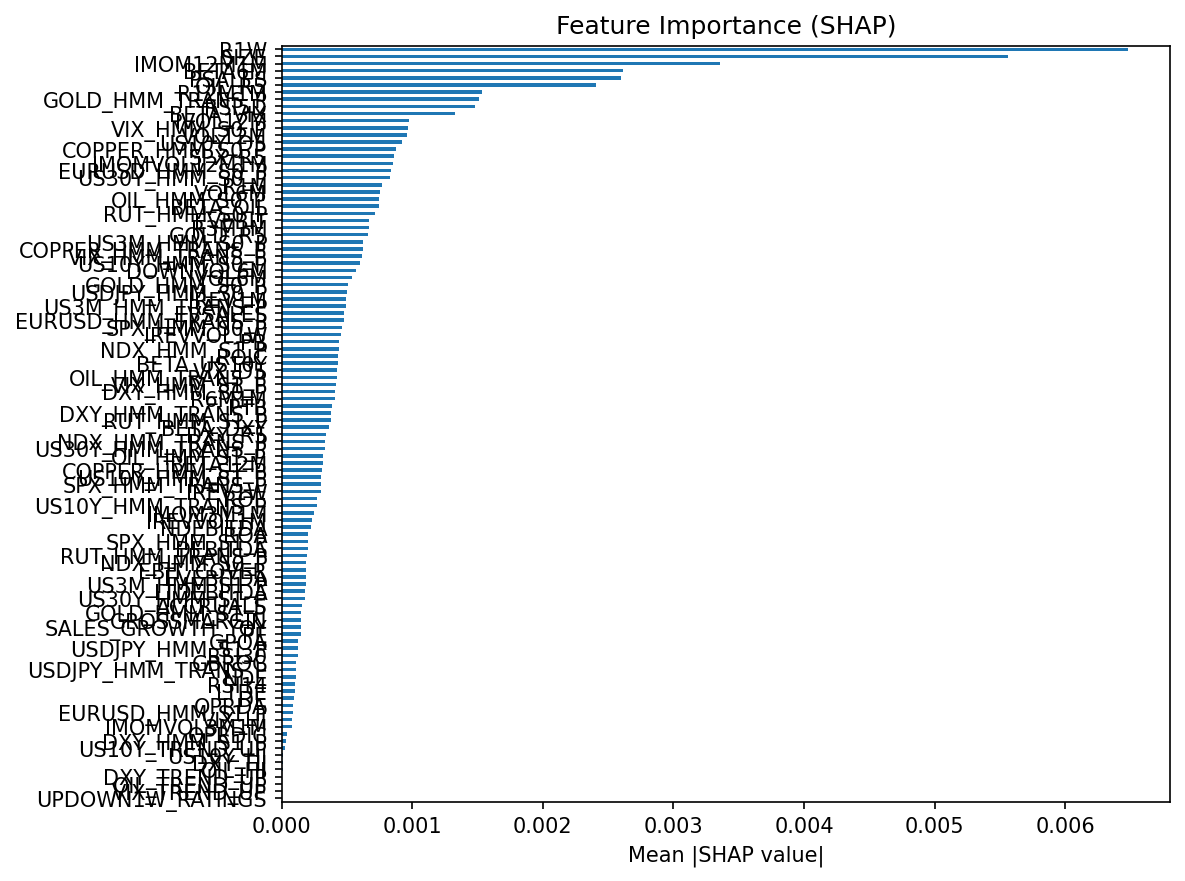
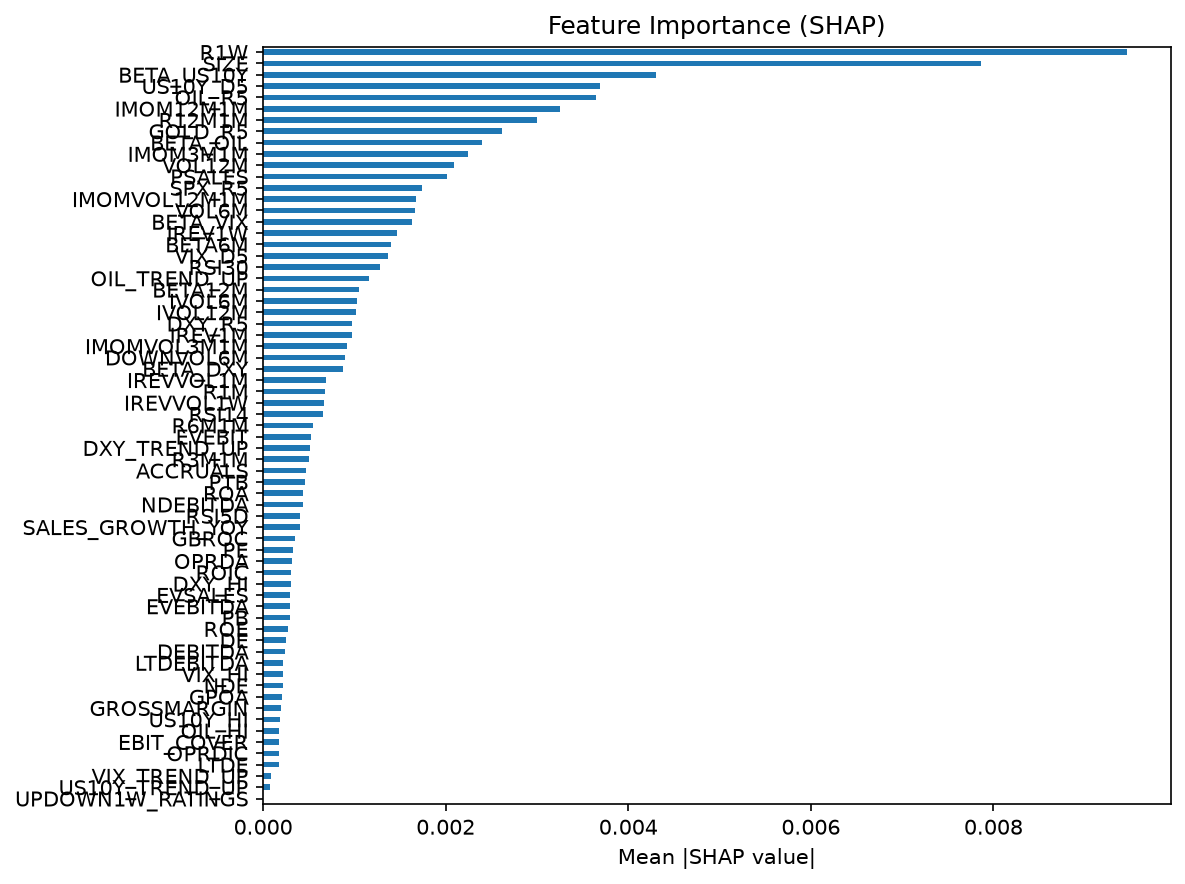
feat(universe): exclude preferred shares from live pick selection
Preferred lines (ENB-PN.TO, BCE-PY.TO, BBD-PC.TO, …) were being surfaced as
long picks. They are not the instrument the model ranks: all 12 in the current
universe sit at C$21-26 (the TSX C$25 par) yielding 5.7-7.6%, so the price
factors that dominate this model (R1W reversal, momentum, vol) mean something
different on them. FMP also reports the PARENT issuer's market cap on a
preferred line, so SIZE is simply wrong for these names.

Applied at SELECTION time in src/predict.py, gated on universe.exclude_preferred
— no retrain required, the model just never picks them. Deliberately NOT applied
in the backtest: that would change historical results and break comparability
with the runs recorded in .specify/007, and would corrupt the bag-ON/bag-OFF A/B
currently in flight.

The detector matches `-P<letter>` and deliberately NOT `-<letter>`. The looser
pattern matches 31 tickers in this universe and would silently delete legitimate
dual-class COMMON shares — BBD-A.TO/BBD-B.TO, BF-B, CTC-A.TO, GIB-A.TO, BT-A.L —
plus income-trust/REIT units (BEP-UN.TO). tests/test_preferred_filter.py pins
both directions so a future tweak cannot quietly widen it.

Effect on the 2026-08-20 THU forecast: eligible universe 728 -> 716, BBD-PC.TO
and BCE-PY.TO drop out of the long book, ARE and CSCO promote in.

Also refreshes the SHAP figures from the bag-ON run (R1W remains #1 of 67).

diff --git a/src/data/universe.py b/src/data/universe.py
@@ -1,6 +1,7 @@
 """Universe construction: index constituents, sector filters, ADV filters."""
 
 import io
+import re
 
 import pandas as pd
 import requests
@@ -213,3 +214,41 @@ def get_region_for_ticker(symbol: str) -> str | None:
             if symbol in set(df["symbol"].astype(str)):
                 return region
     return None
+
+
+# ---------------------------------------------------------------------------
+# Preferred-share exclusion
+# ---------------------------------------------------------------------------
+
+# TSX/NYSE convention: a preferred series is a "-P" suffix plus the series
+# letter, e.g. ENB-PN.TO (Enbridge preferred series N), BCE-PY.TO. The trailing
+# ".TO"/".L" exchange suffix is optional so US lines like BAC-PL also match.
+#
+# Deliberately NOT `-[A-Z]`: that convention also marks dual-class COMMON
+# shares, which are legitimate universe members and must not be dropped —
+# BBD-A.TO / BBD-B.TO (Bombardier), BF-B (Brown-Forman), CTC-A.TO (Canadian
+# Tire), GIB-A.TO (CGI), BT-A.L (BT Group). Nor `-UN` (income-trust/REIT units
+# such as BEP-UN.TO), which are equity-like and intentionally kept.
+_PREFERRED_RE = re.compile(r"-P[A-Z]?(?:\.[A-Z]+)?$", re.IGNORECASE)
+
+
+def is_preferred_share(symbol: str) -> bool:
+    """True if `symbol` looks like a preferred-share line rather than common equity.
+
+    Preferreds are excluded at SELECTION time because they are not the
+    instrument the model was trained to rank: they trade near a fixed par
+    (C$25 on the TSX) with bond-like yields, so the price-derived factors that
+    dominate this model (R1W reversal, momentum, volatility) carry a completely
+    different meaning on them. FMP also reports the PARENT issuer's market cap
+    on a preferred line, so SIZE is simply wrong for these names.
+
+    Verified against the 2026-08-20 forecast universe: matches exactly the 12
+    preferred lines (all clustered at $21-26 with 5.7-7.6% yields) and none of
+    the dual-class commons.
+    """
+    return bool(_PREFERRED_RE.search(str(symbol).strip()))
+
+
+def filter_preferred_shares(symbols) -> list[str]:
+    """Return `symbols` with preferred-share lines removed (order preserved)."""
+    return [s for s in symbols if not is_preferred_share(s)]

diff --git a/tests/test_preferred_filter.py b/tests/test_preferred_filter.py
@@ -1,0 +1,60 @@
+"""Preferred-share exclusion (src/data/universe.py).
+
+The risk this guards against is not missing a preferred — it is silently
+dropping legitimate dual-class COMMON shares, which share the `-<LETTER>`
+ticker convention and are real universe members.
+"""
+
+from __future__ import annotations
+
+import pytest
+
+from src.data.universe import filter_preferred_shares, is_preferred_share
+
+# The 12 preferred lines actually present in the 2026-08-20 forecast universe,
+# all verified as ~C$25-par / 5.7-7.6%-yield instruments.
+PREFERRED = [
+    "AQN-PA.TO", "BBD-PC.TO", "BCE-PY.TO", "BPO-PI.TO", "EMA-PC.TO",
+    "EMA-PH.TO", "ENB-PN.TO", "ENB-PT.TO", "PPL-PA.TO", "PPL-PC.TO",
+    "TA-PH.TO", "WN-PA.TO",
+]
+
+# Must survive: dual-class commons, trust/REIT units, and plain tickers.
+COMMON = [
+    "BBD-A.TO", "BBD-B.TO",      # Bombardier Class A/B common
+    "BF-B",                       # Brown-Forman Class B
+    "CTC-A.TO", "GIB-A.TO",       # Canadian Tire / CGI Class A
+    "CCL-B.TO", "EMP-A.TO", "QBR-B.TO",
+    "BT-A.L",                     # BT Group
+    "ACO-X.TO",                   # Atco Class I non-voting
+    "BEP-UN.TO", "CAR-UN.TO", "CHP-UN.TO", "CSH-UN.TO", "GRT-UN.TO",  # units
+    "AAPL", "MSFT", "ENB.TO", "BCE.TO", "HMSO.L", "TSLA",
+]
+
+
+@pytest.mark.parametrize("sym", PREFERRED)
+def test_preferred_detected(sym):
+    assert is_preferred_share(sym), f"{sym} should be flagged preferred"
+
+
+@pytest.mark.parametrize("sym", COMMON)
+def test_common_not_flagged(sym):
+    assert not is_preferred_share(sym), (
+        f"{sym} is common equity / a trust unit and must NOT be filtered out"
+    )
+
+
+def test_filter_removes_only_preferred():
+    out = filter_preferred_shares(PREFERRED + COMMON)
+    assert out == COMMON, "filter changed order or dropped a legitimate name"
+    assert not any(is_preferred_share(s) for s in out)
+
+
+def test_filter_is_order_preserving_and_total():
+    mixed = ["AAPL", "ENB-PN.TO", "BF-B", "BCE-PY.TO", "TSLA"]
+    assert filter_preferred_shares(mixed) == ["AAPL", "BF-B", "TSLA"]
+
+
+def test_handles_whitespace_and_case():
+    assert is_preferred_share("  enb-pn.to  ")
+    assert not is_preferred_share("  bbd-b.to  ")

diff --git a/src/predict.py b/src/predict.py
@@ -469,7 +469,24 @@ def _build_target_eligibility(
         if len(prior) == 0:
             return pd.Series(False, index=close.columns)
         target_wed = prior[-1]
-    return eligibility.loc[target_wed]
+    out = eligibility.loc[target_wed]
+
+    # Drop preferred-share lines from the tradeable set. Applied at SELECTION
+    # time only — the model is not retrained, it simply never picks them. See
+    # universe.is_preferred_share for why they are unsuitable (fixed par, bond
+    # -like yields, parent-issuer market cap).
+    if cfg["universe"].get("exclude_preferred", True):
+        from src.data.universe import is_preferred_share
+
+        pref = pd.Index([t for t in out.index if is_preferred_share(t)])
+        if len(pref):
+            out.loc[pref] = False
+            log.info(
+                f"Excluded {len(pref)} preferred-share lines from the eligible "
+                f"universe: {', '.join(sorted(pref)[:12])}"
+                + (" ..." if len(pref) > 12 else "")
+            )
+    return out
 
 
 # ---------------------------------------------------------------------------
